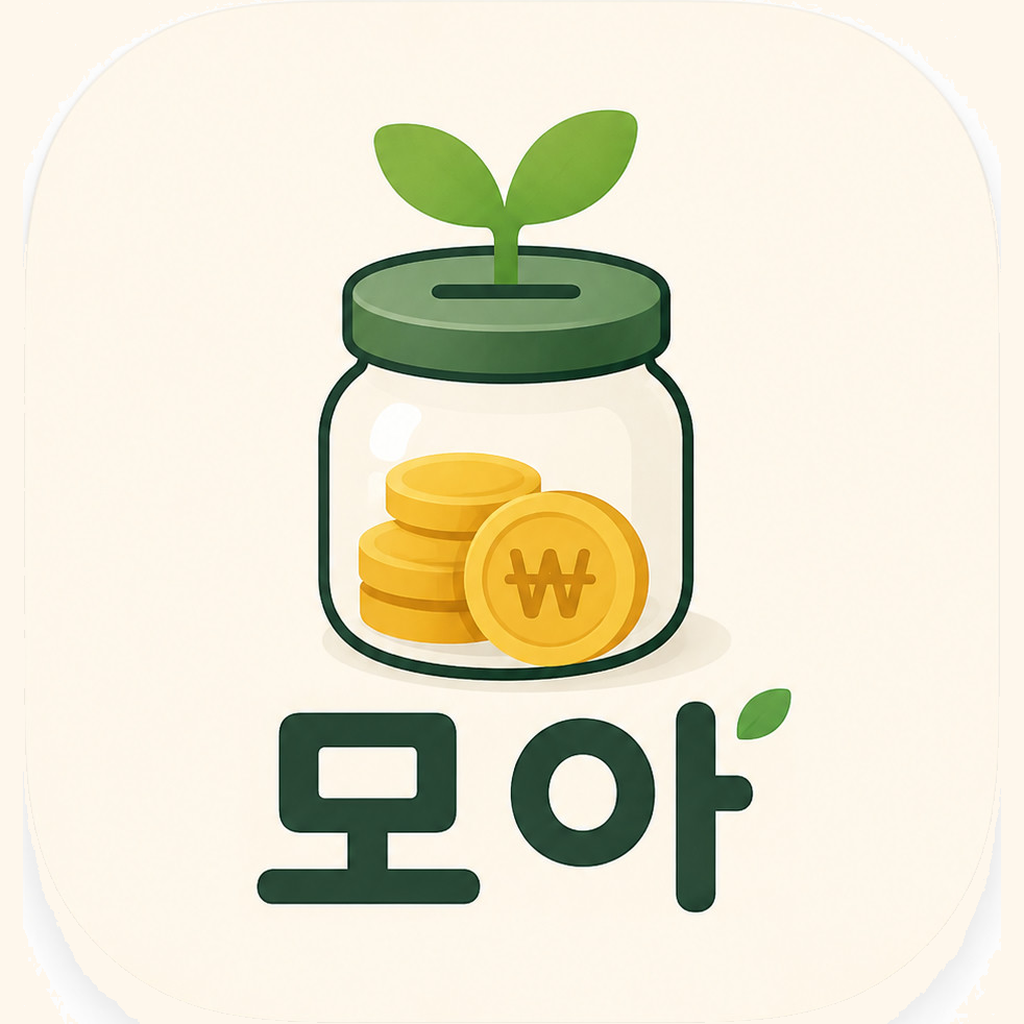
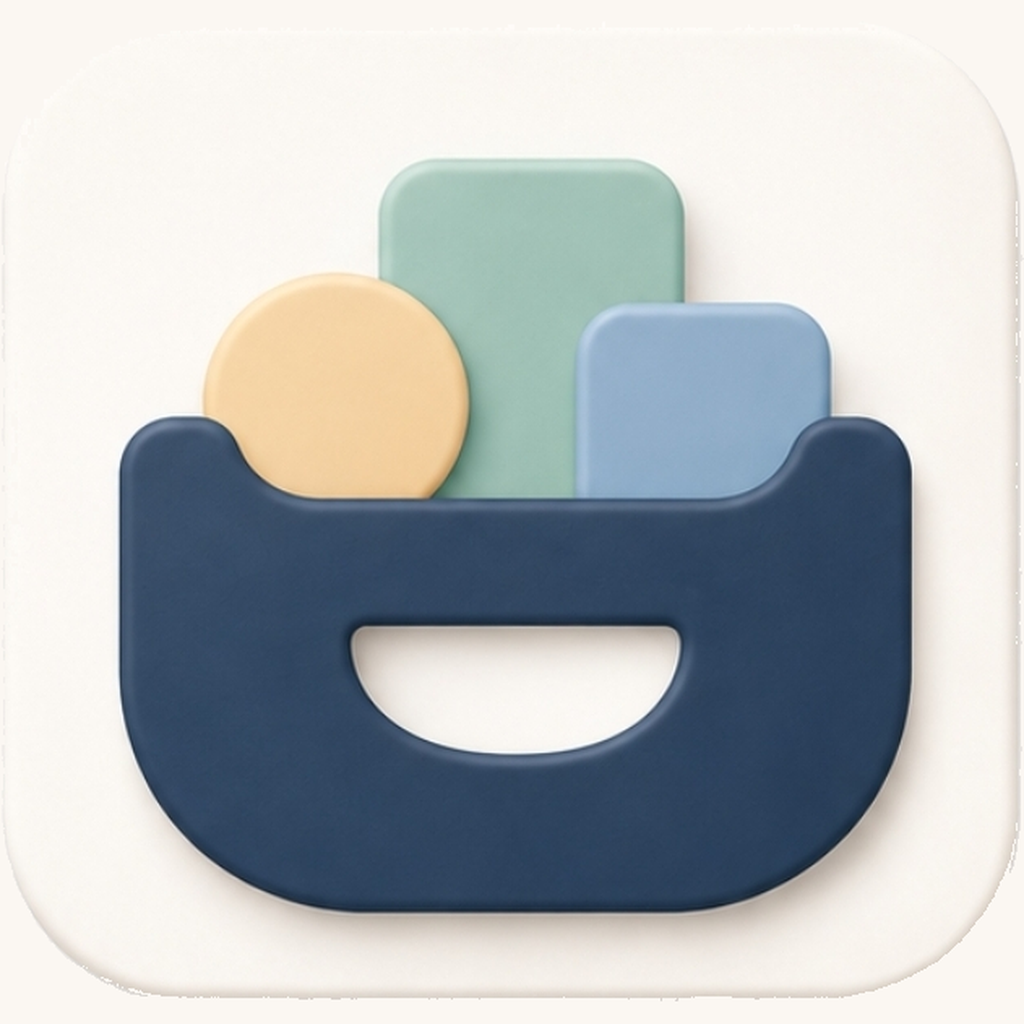
새 아이콘으로 교체하고 앱 색을 아이콘에 맞춰 라이트 테마로 전환
보내주신 새 그림(크림 배경 + 네이비 바구니 + 세이지·블루 카드 + 금색 동전)을
아이콘으로 넣고, 앱 안쪽 색도 그 색감으로 맞췄다.

아이콘

- tools/icon/source.jpg 교체. 이번 그림은 종이 여백과 아이콘 배경의 색이
  거의 같아(파랑 11 차이) 색만으로는 못 갈랐다. 그래서 '따뜻한 밝은 색 중
  가장 큰 덩어리'를 찾고 그 구멍을 메워 사각형을 잡는 방식으로 바꿨다.
  종이의 JPEG 잡티도 따뜻하게 잡히지만 흩어진 점이라 덩어리가 못 된다.
- 모노크롬은 밝기로 자른다. 알파로 만들면 손잡이 구멍까지 메워져 뭉친
  덩어리가 된다(구멍 안에 옅은 그림자가 깔려 있어 배경으로 안 걸러진다).

테마

- 다크(#0B0E14) → 라이트(#F6F1E8). 강조색은 아이콘 바구니 네이비(#3C4F68).
- 파스텔 그대로는 밝은 바탕에서 글자로 못 쓴다. 증가·경고처럼 글자에 쓰는
  값은 같은 계열에서 더 진한 쪽을 골라 대비를 맞췄다(세이지 → #3E7D66,
  동전색 → #A9752E).
- 진척도 링과 영역 그래프에 박아뒀던 다크용 색을 토큰으로 뺐다.
- 상태바 글자색을 dark로, app.json의 userInterfaceStyle을 light로.

타입체크·테스트 90개 통과. 웹으로 내보내 다섯 탭과 입력 화면들을 실제로
렌더링해 확인했고 브라우저 에러는 없었다.

Claude-Session: https://claude.ai/code/session_0152ek2Txz1t7jsfVPdsz1qH

diff --git a/src/theme.ts b/src/theme.ts
@@ -1,44 +1,52 @@
 /**
  * 앱 전역 디자인 토큰.
  *
- * 다크 테마 하나로 고정한다. 돈 관련 숫자를 오래 들여다보는 앱이라
- * 대비를 확실히 주고, 증가(초록)/감소(빨강)는 한국 금융앱 관례를 따른다.
+ * 아이콘(크림 배경 + 네이비 바구니 + 세이지/블루 카드)의 색감을 그대로 쓴다.
+ * 라이트 테마 하나로 고정한다. 돈 관련 숫자를 오래 들여다보는 앱이라
+ * 글자는 대비를 확실히 주고, 증가(초록)/감소(빨강)는 한국 금융앱 관례를 따른다.
+ *
+ * 아이콘에서 뽑은 색: 크림 #FBF8F3, 네이비 #3C4F68, 세이지 #A2C2B7,
+ * 블루 #92ADC8, 골드 #F4D3A5. 파스텔 그대로는 흰 바탕에서 글자로 못 쓰니
+ * 글자·강조에 쓰는 값은 같은 계열에서 더 진한 쪽을 골랐다.
  */
 
 export const colors = {
-  bg: '#0B0E14',
-  surface: '#141924',
-  surfaceAlt: '#1C2231',
-  border: '#252D3D',
+  bg: '#F6F1E8',
+  surface: '#FFFCF7',
+  surfaceAlt: '#EDE5D8',
+  border: '#E1D7C6',
 
-  text: '#F2F5FA',
-  textMuted: '#9AA5B8',
-  textFaint: '#5E6980',
+  text: '#2B3A4F',
+  textMuted: '#66768C',
+  textFaint: '#98A4B4',
 
-  /** 브랜드/강조: 목표 진척도, 주요 버튼 */
-  primary: '#4C8DFF',
-  primarySoft: '#1E3157',
+  /** 브랜드/강조: 목표 진척도, 주요 버튼. 아이콘 바구니 색 */
+  primary: '#3C4F68',
+  /** 진척도 링 그라데이션의 밝은 끝 */
+  primaryLight: '#7A93B0',
+  primarySoft: '#E3E8EF',
 
-  /** 증가·수입·달성 */
-  up: '#26C281',
-  upSoft: '#12352A',
+  /** 증가·수입·달성. 아이콘 세이지(#A2C2B7)를 글자용으로 진하게 */
+  up: '#3E7D66',
+  upLight: '#7FA894',
+  upSoft: '#E2EDE7',
   /** 감소·지출·초과 */
-  down: '#FF5C5C',
-  downSoft: '#3A1D22',
-  /** 경고(예산 80% 초과 등) */
-  warn: '#FFB020',
-  warnSoft: '#3A2C12',
+  down: '#B4564C',
+  downSoft: '#F7E5E2',
+  /** 경고(예산 80% 초과 등). 아이콘 동전색을 진하게 */
+  warn: '#A9752E',
+  warnSoft: '#F6EAD4',
 
   /** 차트 계열색. 도넛/바 차트에서 순서대로 쓴다. */
   chart: [
-    '#4C8DFF',
-    '#26C281',
-    '#FFB020',
-    '#A56CFF',
-    '#FF7AC8',
-    '#42C9D9',
-    '#FF8A4C',
-    '#7A8AA8',
+    '#3C4F68',
+    '#7FA894',
+    '#92ADC8',
+    '#D9A85F',
+    '#B4796A',
+    '#8E86A8',
+    '#6FA0A6',
+    '#9AA6B5',
   ] as string[],
 };
 

diff --git a/src/components/charts.tsx b/src/components/charts.tsx
@@ -71,7 +71,7 @@ export function ProgressRing({
         <Defs>
           <LinearGradient id="ringGrad" x1="0" y1="0" x2="1" y2="1">
             <Stop offset="0" stopColor={done ? colors.up : colors.primary} />
-            <Stop offset="1" stopColor={done ? '#7BE0B0' : '#8FB8FF'} />
+            <Stop offset="1" stopColor={done ? colors.upLight : colors.primaryLight} />
           </LinearGradient>
         </Defs>
         {/* 12시 방향에서 시작해 시계방향으로 채우도록 -90도 회전 */}
@@ -175,8 +175,8 @@ export function LineChart({
           <Svg width={width} height={height}>
             <Defs>
               <LinearGradient id="areaGrad" x1="0" y1="0" x2="0" y2="1">
-                <Stop offset="0" stopColor={colors.primary} stopOpacity={0.28} />
-                <Stop offset="1" stopColor={colors.primary} stopOpacity={0} />
+                <Stop offset="0" stopColor={colors.primaryLight} stopOpacity={0.34} />
+                <Stop offset="1" stopColor={colors.primaryLight} stopOpacity={0} />
               </LinearGradient>
             </Defs>
 

diff --git a/app/_layout.tsx b/app/_layout.tsx
@@ -10,7 +10,7 @@ export default function RootLayout() {
   return (
     <SafeAreaProvider>
       <StoreProvider>
-        <StatusBar style="light" />
+        <StatusBar style="dark" />
         <AppShell />
       </StoreProvider>
     </SafeAreaProvider>

diff --git a/tools/icon/from_source.py b/tools/icon/from_source.py
@@ -17,12 +17,35 @@ from PIL import Image, ImageFilter
 import numpy as np
 
 SRC = os.path.join(os.path.dirname(os.path.abspath(__file__)), 'source.jpg')
-TOL = 16  # 채널별 허용 오차. 흰색과 크림은 파랑이 19 차이라 이 아래면 둘이 갈린다.
+TOL = 22  # 배경으로 볼 색의 허용 오차(채널별). 아이콘 배경에 은은한 명암이
+          # 깔려 있어 넉넉해야 한다. 종이 여백은 따로 걸러내므로 안전하다.
 
 
-def _warm_mask(a):
-    """따뜻한 밝은 색(= 크림 후보). 자르기 범위를 잡을 때만 쓰는 대충의 마스크."""
-    return (a[:, :, 0] - a[:, :, 2] >= 12) & (a[:, :, 0] > 215)
+def _largest_blob(mask):
+    """mask에서 가장 큰 덩어리만 남긴 마스크."""
+    h, w = mask.shape
+    seen = np.zeros_like(mask)
+    best = None
+    for y0 in range(h):
+        for x0 in range(w):
+            if not mask[y0, x0] or seen[y0, x0]:
+                continue
+            q = deque([(y0, x0)])
+            seen[y0, x0] = True
+            cells = []
+            while q:
+                y, x = q.popleft()
+                cells.append((y, x))
+                for ny, nx in ((y - 1, x), (y + 1, x), (y, x - 1), (y, x + 1)):
+                    if 0 <= ny < h and 0 <= nx < w and mask[ny, nx] and not seen[ny, nx]:
+                        seen[ny, nx] = True
+                        q.append((ny, nx))
+            if best is None or len(cells) > len(best):
+                best = cells
+    out = np.zeros_like(mask)
+    for y, x in best:
+        out[y, x] = True
+    return out
 
 
 def _from_border(mask):
@@ -105,25 +128,41 @@ def fill_big_holes(mask, min_area):
 
 
 def load():
-    """그림에서 크림 사각형만 잘라내고, (crop, 크림색, 마스크들)을 돌려준다."""
+    """그림에서 아이콘 사각형만 잘라내고, (crop, 배경색, 배경마스크, 사각형바깥)을 준다.
+
+    보내주신 이미지는 아이콘이 흰 종이 위에 놓인 형태다(아래에 제목·설명이
+    붙기도 한다). 종이와 아이콘 배경은 색이 아주 가까워서 색만으로는 못 가른다.
+    그래서 두 단계로 나눈다.
+
+      1) 따뜻한 밝은 색 중 '가장 큰 덩어리'를 찾아 아이콘 배경으로 본다.
+         종이의 JPEG 잡티도 따뜻하게 잡히지만, 흩어진 점이라 덩어리가 못 된다.
+      2) 그 덩어리의 구멍(=그림)을 메워 사각형 전체를 얻는다.
+
+    사각형 안쪽만 남으면 종이와 헷갈릴 일이 없으므로, 배경 판정은
+    넉넉하게 잡아도 된다. 아이콘 배경에 은은한 명암이 깔려 있어서 필요하다.
+    """
     src = Image.open(SRC).convert('RGB')
     a = np.asarray(src).astype(int)
-    ys, xs = np.where(_warm_mask(a))
-    L, R, T, B = int(xs.min()), int(xs.max()), int(ys.min()), int(ys.max())
+
+    warm = (a[:, :, 0] - a[:, :, 2] >= 6) & (a[:, :, 0] > 215)
+    blob = _largest_blob(warm)
+    plate = fill_big_holes(blob, min_area=int(blob.sum() * 0.02))
+
+    ys, xs = np.where(plate)
+    T, L, B, R = int(ys.min()), int(xs.min()), int(ys.max()), int(xs.max())
     crop = src.crop((L, T, R + 1, B + 1))
+    outside = ~plate[T:B + 1, L:R + 1]
 
     c = np.asarray(crop).astype(int)
     cx = crop.width // 2
-    # 배경색은 사각형 위쪽 가운데(새싹보다 위)에서 뽑는다. 모서리는 둥글어서 바깥이 잡힌다.
-    cream = np.median(c[30:70, cx - 60:cx + 60].reshape(-1, 3), axis=0).astype(int)
-
-    is_cream = (np.abs(c - cream) <= TOL).all(axis=2)
-    outside = _from_border(~is_cream)
+    y0 = max(2, int(crop.height * 0.05))
+    cream = np.median(c[y0:y0 + 30, cx - 40:cx + 40].reshape(-1, 3), axis=0).astype(int)
+    is_cream = (np.abs(c - cream) <= TOL).all(axis=2) | outside
     return crop, tuple(int(v) for v in cream), is_cream, outside
 
 
 def square():
-    """크림 사각형. 바깥은 같은 크림색으로 메우고 정사각형으로 맞춘다."""
+    """아이콘 사각형. 바깥은 같은 배경색으로 메우고 정사각형으로 맞춘다."""
     crop, cream, _, outside = load()
     a = np.asarray(crop).copy()
     a[outside] = cream
@@ -135,21 +174,29 @@ def square():
     return out, cream
 
 
-def content(trim_text=False):
-    """배경을 지우고 그림만 남긴 RGBA."""
-    crop, _, is_cream, outside = load()
-    keep = ~is_cream & ~outside
+def content(trim_text=False, bg_tol=34):
+    """배경을 지우고 그림만 남긴 RGBA.
+
+    bg_tol이 load()의 TOL보다 넉넉하다. 그림 둘레의 옅은 그림자까지 배경으로
+    넘겨야 투명 배경에 얹었을 때 네모난 자국이 남지 않는다.
+    """
+    crop, cream, _, outside = load()
+    c = np.asarray(crop).astype(int)
+    keep = ~((np.abs(c - np.array(cream)) <= bg_tol).all(axis=2) | outside)
 
     alpha = Image.fromarray(np.where(keep, 255, 0).astype('uint8'), 'L')
     # JPEG 잡티가 배경 곳곳에 점으로 남는다. 한 번 깎았다 부풀려서 지운다.
     alpha = alpha.filter(ImageFilter.MinFilter(3)).filter(ImageFilter.MaxFilter(3))
     keep = np.asarray(alpha) > 127
-    alpha = alpha.filter(ImageFilter.GaussianBlur(0.7))
+    keep = drop_specks(keep, min_area=int(keep.size * 0.0002))
+    alpha = Image.fromarray(np.where(keep, 255, 0).astype('uint8'), 'L') \
+        .filter(ImageFilter.GaussianBlur(0.7))
+
     out = crop.convert('RGBA')
     out.putalpha(alpha)
 
     if trim_text:
-        # 병과 글자 사이에 완전히 빈 줄은 없다(병 그림자와 잎이 걸친다).
+        # 그림과 글자 사이에 완전히 빈 줄은 없다(그림자와 잎이 걸친다).
         # 그래서 아래쪽 절반에서 픽셀이 가장 적은 줄을 경계로 삼는다.
         per_row = keep.sum(axis=1)
         lo, hi = int(keep.shape[0] * 0.55), int(keep.shape[0] * 0.85)

diff --git a/tools/icon/make_assets.py b/tools/icon/make_assets.py
@@ -22,27 +22,38 @@ def save(img, path, size):
     print('생성:', path, f'{size}x{size}')
 
 
-def mono(art, size):
-    """실루엣. 알파를 흰색 한 겹으로 세운다.
+def mono(size):
+    """테마 아이콘용 흰 실루엣.
 
-    유리 안쪽은 이미 비어 있어서 병이 선으로 남는다. 통짜 덩어리보다 낫다.
-    원본이 JPEG이라 얇은 병 테두리가 점선처럼 끊긴다. 그래서 한 번
-    부풀렸다 깎아(닫힘 연산) 선을 잇고, 남은 점은 크기로 걸러낸 뒤,
-    큰 구멍(병 안쪽)만 메워 매끈한 덩어리로 만든다.
+    알파(=배경이 아닌 곳)로 만들면 손잡이 구멍까지 메워져 뭉친 덩어리가 된다.
+    구멍 안에는 옅은 그림자가 깔려 있어 '배경'으로 안 걸러지기 때문이다.
+    그래서 밝기로 자른다. 바구니·카드·동전은 배경보다 뚜렷이 어둡고,
+    구멍 안쪽과 테두리 광택은 배경만큼 밝다.
     """
+    crop, cream, _, outside = U.load()
+    a = np.asarray(crop).astype(float)
+    lum = a @ np.array([0.299, 0.587, 0.114])
+    bg_lum = float(np.array(cream) @ np.array([0.299, 0.587, 0.114]))
+    # 사각형 테두리의 광택선이 남아 그림 옆에 얇은 활 모양으로 붙는다.
+    # 판을 안쪽으로 조금 깎아 테두리를 아예 제외한다.
+    inner = Image.fromarray(np.where(outside, 0, 255).astype('uint8'), 'L')
+    k = max(3, int(min(crop.size) * 0.045) | 1)
+    inner = np.asarray(inner.filter(ImageFilter.MinFilter(k))) > 127
+    mask = (lum < bg_lum * 0.91) & inner
+
+    alpha = Image.fromarray(np.where(mask, 255, 0).astype('uint8'), 'L')
+    # JPEG 경계가 톱니처럼 남는다. 부풀렸다 깎아 매끈하게.
+    alpha = alpha.filter(ImageFilter.MaxFilter(7)).filter(ImageFilter.MinFilter(7))
+    mask = U.drop_specks(np.asarray(alpha) > 127,
+                         min_area=int(alpha.size[0] * alpha.size[1] * 0.001))
+
+    art = Image.fromarray(np.zeros((*mask.shape, 4), dtype='uint8'), 'RGBA')
+    art.putalpha(Image.fromarray(np.where(mask, 255, 0).astype('uint8'), 'L'))
+    art = art.crop(art.getbbox())
+
     placed = U.place(art, size, TRANSPARENT, SAFE)
-    alpha = placed.getchannel('A').point(lambda v: 255 if v > 110 else 0)
-    alpha = alpha.filter(ImageFilter.MaxFilter(5)).filter(ImageFilter.MinFilter(5))
-
-    mask = np.asarray(alpha) > 127
-    mask = U.drop_specks(mask, min_area=int(size * size * 0.0004))
-    # 병 안쪽은 메워서 통짜 실루엣으로. 얇은 유리 선은 JPEG 자국 때문에
-    # 점선처럼 끊겨서, 선으로 남기면 지저분하다.
-    mask = U.fill_big_holes(mask, min_area=int(size * size * 0.004))
-
     white = Image.new('RGBA', placed.size, (255, 255, 255, 0))
-    white.putalpha(Image.fromarray(np.where(mask, 255, 0).astype('uint8'), 'L')
-                   .filter(ImageFilter.GaussianBlur(0.6)))
+    white.putalpha(placed.getchannel('A').filter(ImageFilter.GaussianBlur(0.6)))
     return white
 
 
@@ -56,6 +67,6 @@ if __name__ == '__main__':
 
     save(U.place(art, 1024, TRANSPARENT, SAFE), f'{out}/android-icon-foreground.png', 512)
     save(Image.new('RGBA', (512, 512), cream), f'{out}/android-icon-background.png', 512)
-    save(mono(art, 1024), f'{out}/android-icon-monochrome.png', 432)
+    save(mono(1024), f'{out}/android-icon-monochrome.png', 432)
 
     save(U.place(art, 1024, TRANSPARENT, SAFE), f'{out}/splash-icon.png', 1024)

diff --git a/README.md b/README.md
@@ -305,5 +305,5 @@ src/
 '미분류'로 변해 지난 달 통계가 망가지기 때문입니다.
 
 **차트는 라이브러리 없이 `react-native-svg`로 직접 그렸습니다.** 필요한 모양이
-네 가지(링·라인·바·도넛)뿐이고, 직접 그리면 다크 테마와 원화 단위 축 라벨을
+네 가지(링·라인·바·도넛)뿐이고, 직접 그리면 앱 테마 색과 원화 단위 축 라벨을
 정확히 맞출 수 있습니다.
